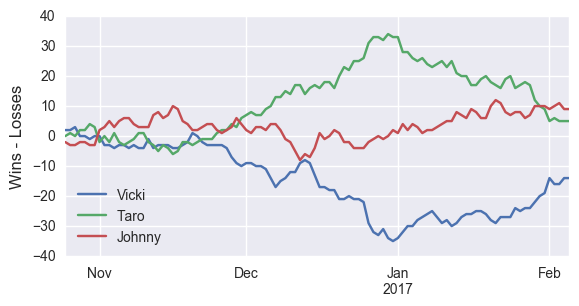
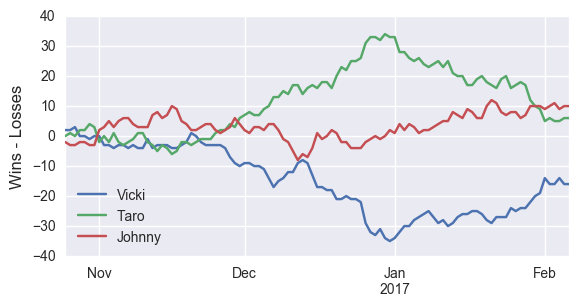
update 2/6

diff --git a/index.html b/index.html
@@ -35,7 +35,7 @@
 <a id="the-bet-is-on" class="anchor" href="#the-bet-is-on" aria-hidden="true"><span aria-hidden="true" class="octicon octicon-link"></span></a>The bet is on.</h1>
 
 <h1>
-<a id="current-winner-of-2016-17-season" class="anchor" href="#current-winner-of-2016-17-season" aria-hidden="true"><span aria-hidden="true" class="octicon octicon-link"></span></a>Current winner of 2016-17 Season (as of 2/5/2017):</h1>
+<a id="current-winner-of-2016-17-season" class="anchor" href="#current-winner-of-2016-17-season" aria-hidden="true"><span aria-hidden="true" class="octicon octicon-link"></span></a>Current winner of 2016-17 Season (as of 2/6/2017):</h1>
 
 <h2>
 <a id="none" class="anchor" href="#none" aria-hidden="true"><span aria-hidden="true" class="octicon octicon-link"></span></a><strong>Johnny</strong>
@@ -44,23 +44,23 @@
 <h2>
 <a id="johnny" class="anchor" href="Johnny.html" aria-hidden="true"><span aria-hidden="true" class="octicon octicon-link"></span>Johnny</a></h2>
 
-<p>Wins: 260<br>
+<p>Wins: 261<br>
 Losses: 251<br>
-Remaining wins available: 268</p>
+Remaining wins available: 267</p>
 
 <h2>
 <a id="taro" class="anchor" href="Taro.html" aria-hidden="true"><span aria-hidden="true" class="octicon octicon-link"></span>Taro</a></h2>
 
-<p>Wins: 258<br>
-Losses: 253<br>
-Remaining wins available: 266</p>
+<p>Wins: 260<br>
+Losses: 254<br>
+Remaining wins available: 264</p>
 
 <h2>
 <a id="vicki" class="anchor" href="Vicki.html" aria-hidden="true"><span aria-hidden="true" class="octicon octicon-link"></span>Vicki</a></h2>
 
 <p>Wins: 246<br>
-Losses: 260<br>
-Remaining wins available: 270</p>
+Losses: 262<br>
+Remaining wins available: 268</p>
 
 <img src='pythoncode/win_percent.png' alt='Winning Percentage Over Time'>
 <h1>

diff --git a/Taro.html b/Taro.html
@@ -35,9 +35,9 @@
 
 <h2>Taro</h2>
 
-<p>Wins: 258<br>
-Losses: 253<br>
-Remaining wins available: 266</p>
+<p>Wins: 260<br>
+Losses: 254<br>
+Remaining wins available: 264</p>
 
 <h2> Current teams </h2>
 <table border="1">
@@ -56,20 +56,20 @@ Remaining wins available: 266</p>
 <tr>
 <td>Nets</td>
 <td>9</td>
-<td>41</td>
-<td>32</td>
+<td>42</td>
+<td>31</td>
 </tr>
 <tr>
 <td>Thunder</td>
-<td>29</td>
+<td>30</td>
 <td>22</td>
-<td>31</td>
+<td>30</td>
 </tr>
 <tr>
 <td>Raptors</td>
-<td>30</td>
-<td>21</td>
 <td>31</td>
+<td>21</td>
+<td>30</td>
 </tr>
 <tr>
 <td>Spurs</td>

diff --git a/Vicki.html b/Vicki.html
@@ -36,8 +36,8 @@
 <h2>Vicki</h2>
 
 <p>Wins: 246<br>
-Losses: 260<br>
-Remaining wins available: 270</p>
+Losses: 262<br>
+Remaining wins available: 268</p>
 
 <h2> Current teams </h2>
 <table border="1">
@@ -62,8 +62,8 @@ Remaining wins available: 270</p>
 <tr>
 <td>Trail Blazers</td>
 <td>22</td>
-<td>29</td>
-<td>31</td>
+<td>30</td>
+<td>30</td>
 </tr>
 <tr>
 <td>Cavaliers</td>
@@ -92,8 +92,8 @@ Remaining wins available: 270</p>
 <tr>
 <td>Clippers</td>
 <td>31</td>
-<td>19</td>
-<td>32</td>
+<td>20</td>
+<td>31</td>
 </tr>
 <tr>
 <td>Suns</td>

diff --git a/Johnny.html b/Johnny.html
@@ -35,9 +35,9 @@
 
 <h2>Johnny</h2>
 
-<p>Wins: 260<br>
+<p>Wins: 261<br>
 Losses: 251<br>
-Remaining wins available: 268</p>
+Remaining wins available: 267</p>
 
 <h2> Current teams </h2>
 <table border="1">
@@ -73,9 +73,9 @@ Remaining wins available: 268</p>
 </tr>
 <tr>
 <td>Celtics</td>
-<td>32</td>
+<td>33</td>
 <td>18</td>
-<td>32</td>
+<td>31</td>
 </tr>
 <tr>
 <td>Pistons</td>
